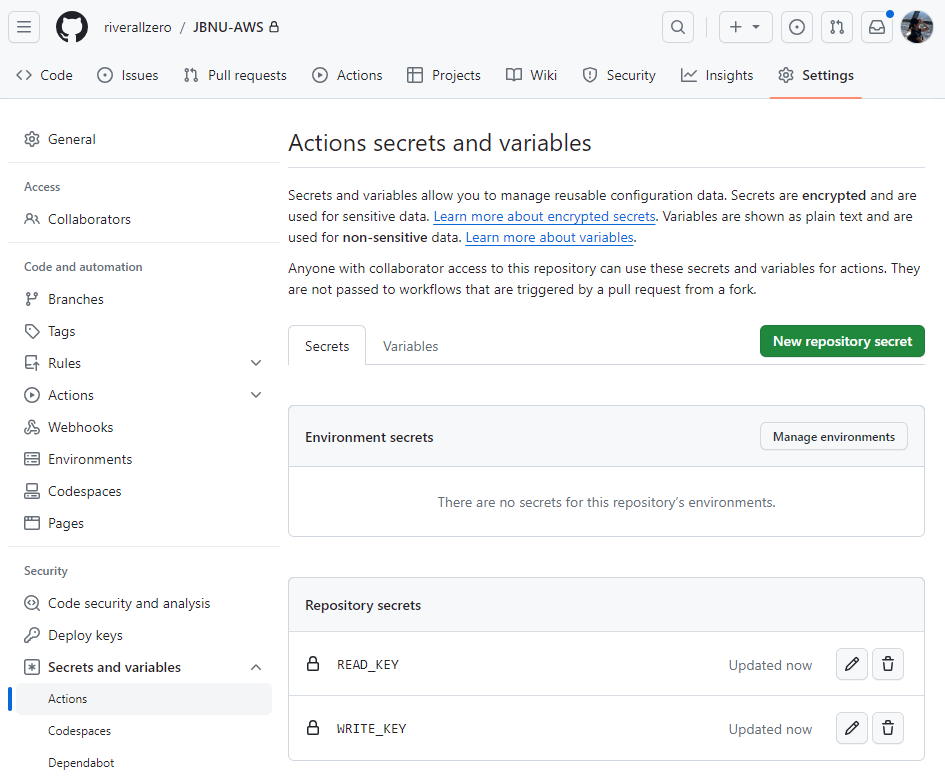
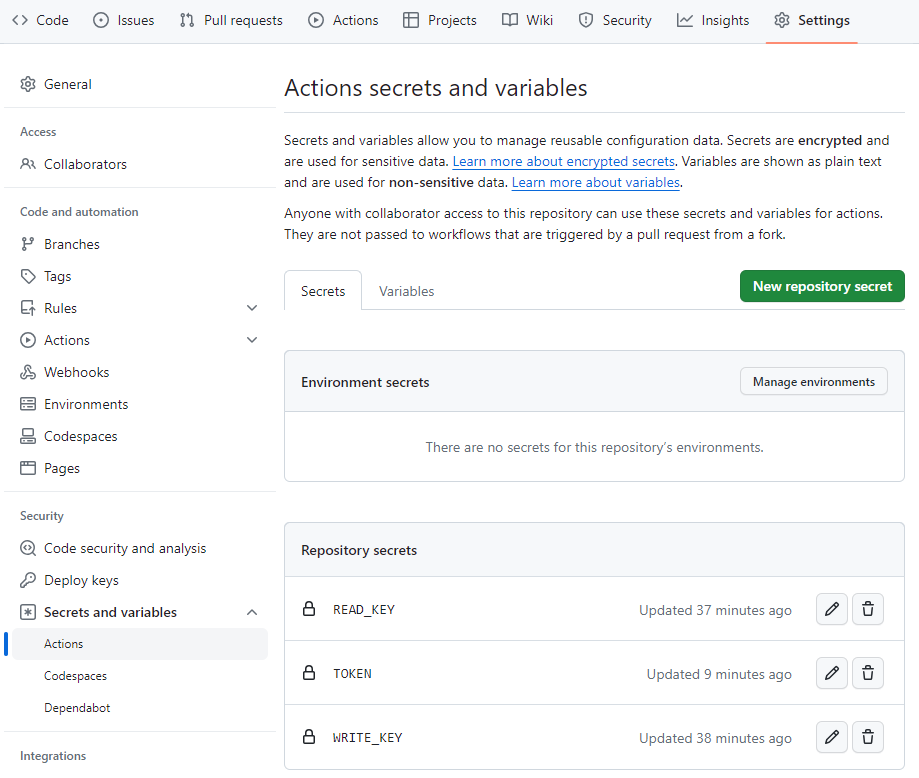
integrate code (write and read in thingspeak)

diff --git a/main.py b/main.py
@@ -1,0 +1,99 @@
+import requests
+import pandas as pd
+from io import StringIO
+
+import datetime
+from pytz import timezone
+from github import Github, Issue
+
+import os
+
+
+def update_data():
+    seoul_timezone = timezone('Asia/Seoul')
+    today = datetime.datetime.now(seoul_timezone)
+
+    year = today.year
+    month = str(today.month).zfill(2)
+    day = str(today.day).zfill(2)
+
+    url = f'http://203.239.47.148:8080/dspnet.aspx?Site=85&Dev=1&Year={year}&Mon={month}&Day={day}'
+    raw_data = requests.get(url).text
+
+    col_name = ['시간', '온도', '습도', 'x_1', 'x_2', 'x_3', '일사', '풍향', 'x_4', 'x_5',
+                'x_6', 'x_7', 'x_8', '픙속(1분 평균)', '강우', '최대순간풍속', '배터리전압']
+    df = pd.read_csv(StringIO(raw_data), header=None, delimiter=',', names=col_name, index_col=False)
+
+    exclude_list = []
+    for name in df.columns:
+        for field in ['x']:
+            if name.startswith(field):
+                exclude_list.append(name)
+
+    df.drop(exclude_list, axis=1, inplace=True)
+
+    df_ts = df.tail(1)
+
+    write_api_key = os.environ.get('WRITE_KEY')
+
+    field_1 = df_ts['온도'].values[0]
+    field_2 = df_ts['습도'].values[0]
+    field_3 = df_ts['일사'].values[0]
+    field_4 = df_ts['픙속(1분 평균)'].values[0]
+    field_5 = df_ts['강우'].values[0]
+
+    thingspeak_url = f'https://api.thingspeak.com/update?api_key={write_api_key}&field1={field_1}&field2={field_2}&field3={field_3}&field4={field_4}&field5={field_5}'
+    requests.get(thingspeak_url)
+
+
+def read_data():
+    read_api_key = os.environ.get('READ_KEY')
+
+    channel_id = '2328517'
+    num = 1
+
+    thingspeak_url = f'https://api.thingspeak.com/channels/{channel_id}/feeds.csv?api_key={read_api_key}&results={num}'
+    response = requests.get(thingspeak_url)
+
+    df = pd.read_csv(StringIO(response.text), names=[])
+
+    seoul_timezone = timezone('Asia/Seoul')
+    today = datetime.datetime.now(seoul_timezone)
+
+    title = f'{today.strftime("%Y-%m-%d")}'
+    GITHUB_TOKEN = os.environ['TOKEN']
+    REPO_NAME = 'JBNU-AWS'
+    repo = Github(GITHUB_TOKEN).get_user().get_repo(REPO_NAME)
+    body = df
+
+    def add_comment_to_issue(repo, issue_number, comment):
+        issue = repo.get_issue(issue_number)
+        issue.create_comment(comment)
+
+    if REPO_NAME == repo.name:
+        if body is not None and not body.empty:
+            table_md = f'- 시간: {df["created_at"]}\n'
+            table_md += f'- 온도: {df["field1"]}\n'
+            table_md += f'- 습도: {df["field2"]}\n'
+            table_md += f'- 일사: {df["field3"]}\n'
+            table_md += f'- 픙속(1분 평균): {df["field4"]}\n'
+            table_md += f'- 강우: {df["field5"]}\n'
+
+            body = table_md
+        else:
+            body = '데이터가 수집되지 않았습니다.'
+
+        existing_issue = None
+        for issue in repo.get_issues():
+            if issue.title == title:
+                existing_issue = issue
+                break
+
+        if existing_issue:
+            add_comment_to_issue(repo, existing_issue.number, body)
+        else:
+            repo.create_issue(title=title, body=body)
+
+
+update_data()
+read_data()

diff --git a/README.md b/README.md
@@ -2,11 +2,19 @@
 
 ## Setting
 ### ThingSpeak
-channel의 write, read api 가져와 ⚙ Settings - (Security) Secrets and variables - Actions - New repository secret에 저장
+
+⚙ Repository Settings - (Security) Secrets and variables - Actions - New repository secret으로 생성
 - WRITE_KEY
 - READ_KEY 
 
+⚙ Settings - Developer settings - Personal access tokens - Token(classic) - Generate new token으로 생성
+- TOKEN
+
+<details>
+<summary>Secret 설정하기</summary>
+
 ![](.asset/secret.png)
+</details>
 
 <details>
 <summary>Channel 만들기</summary>
